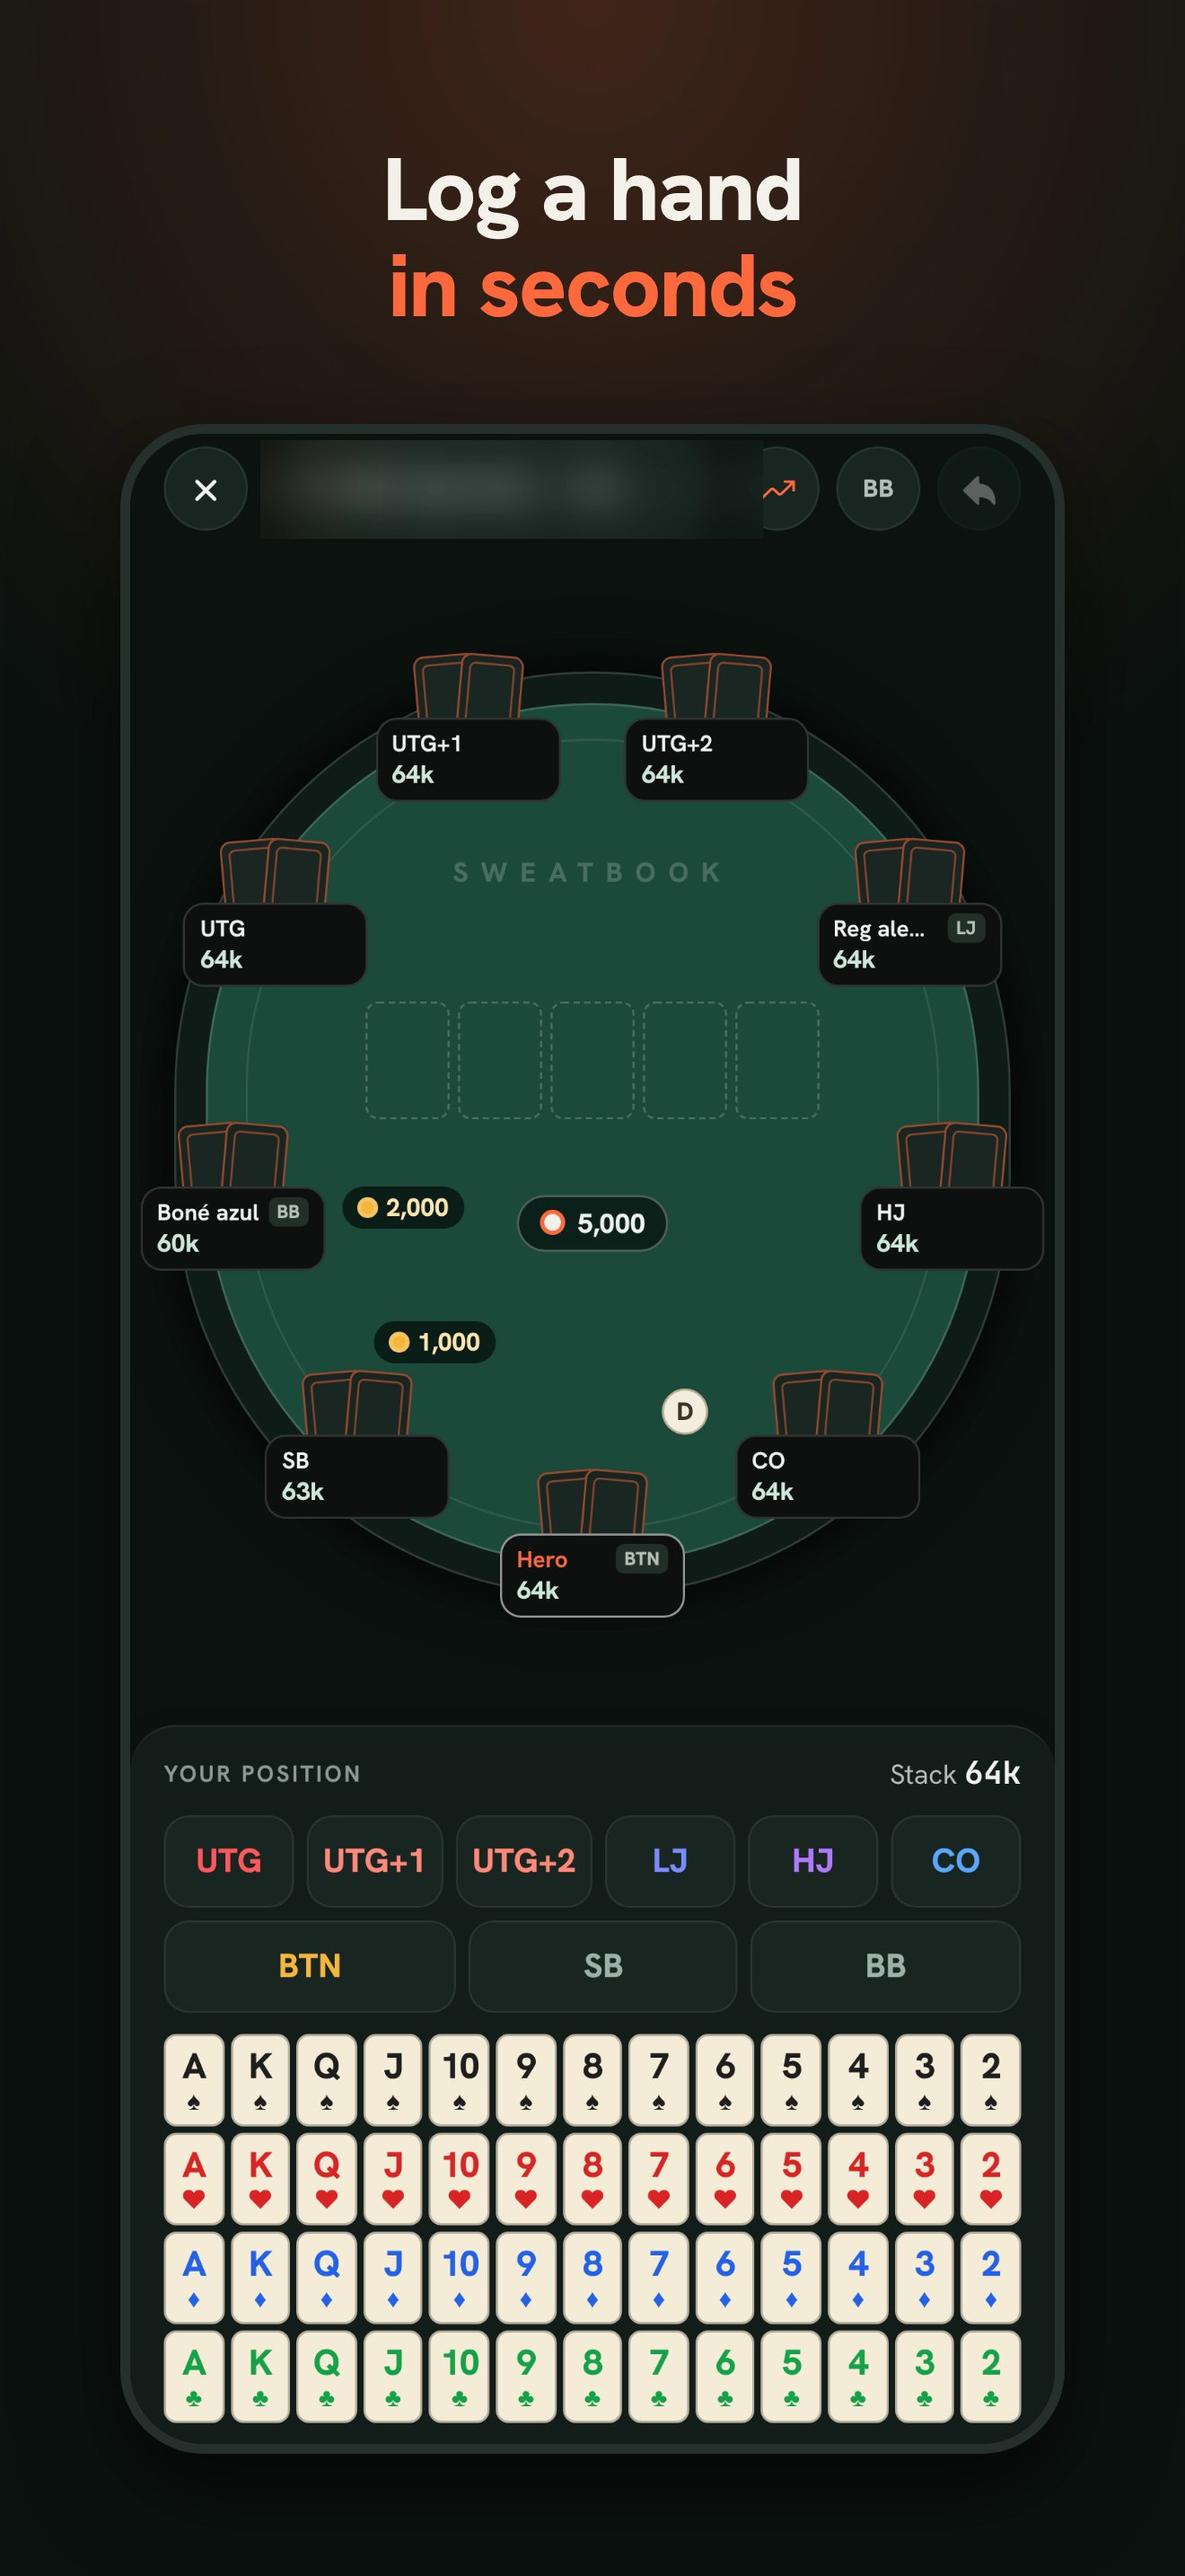
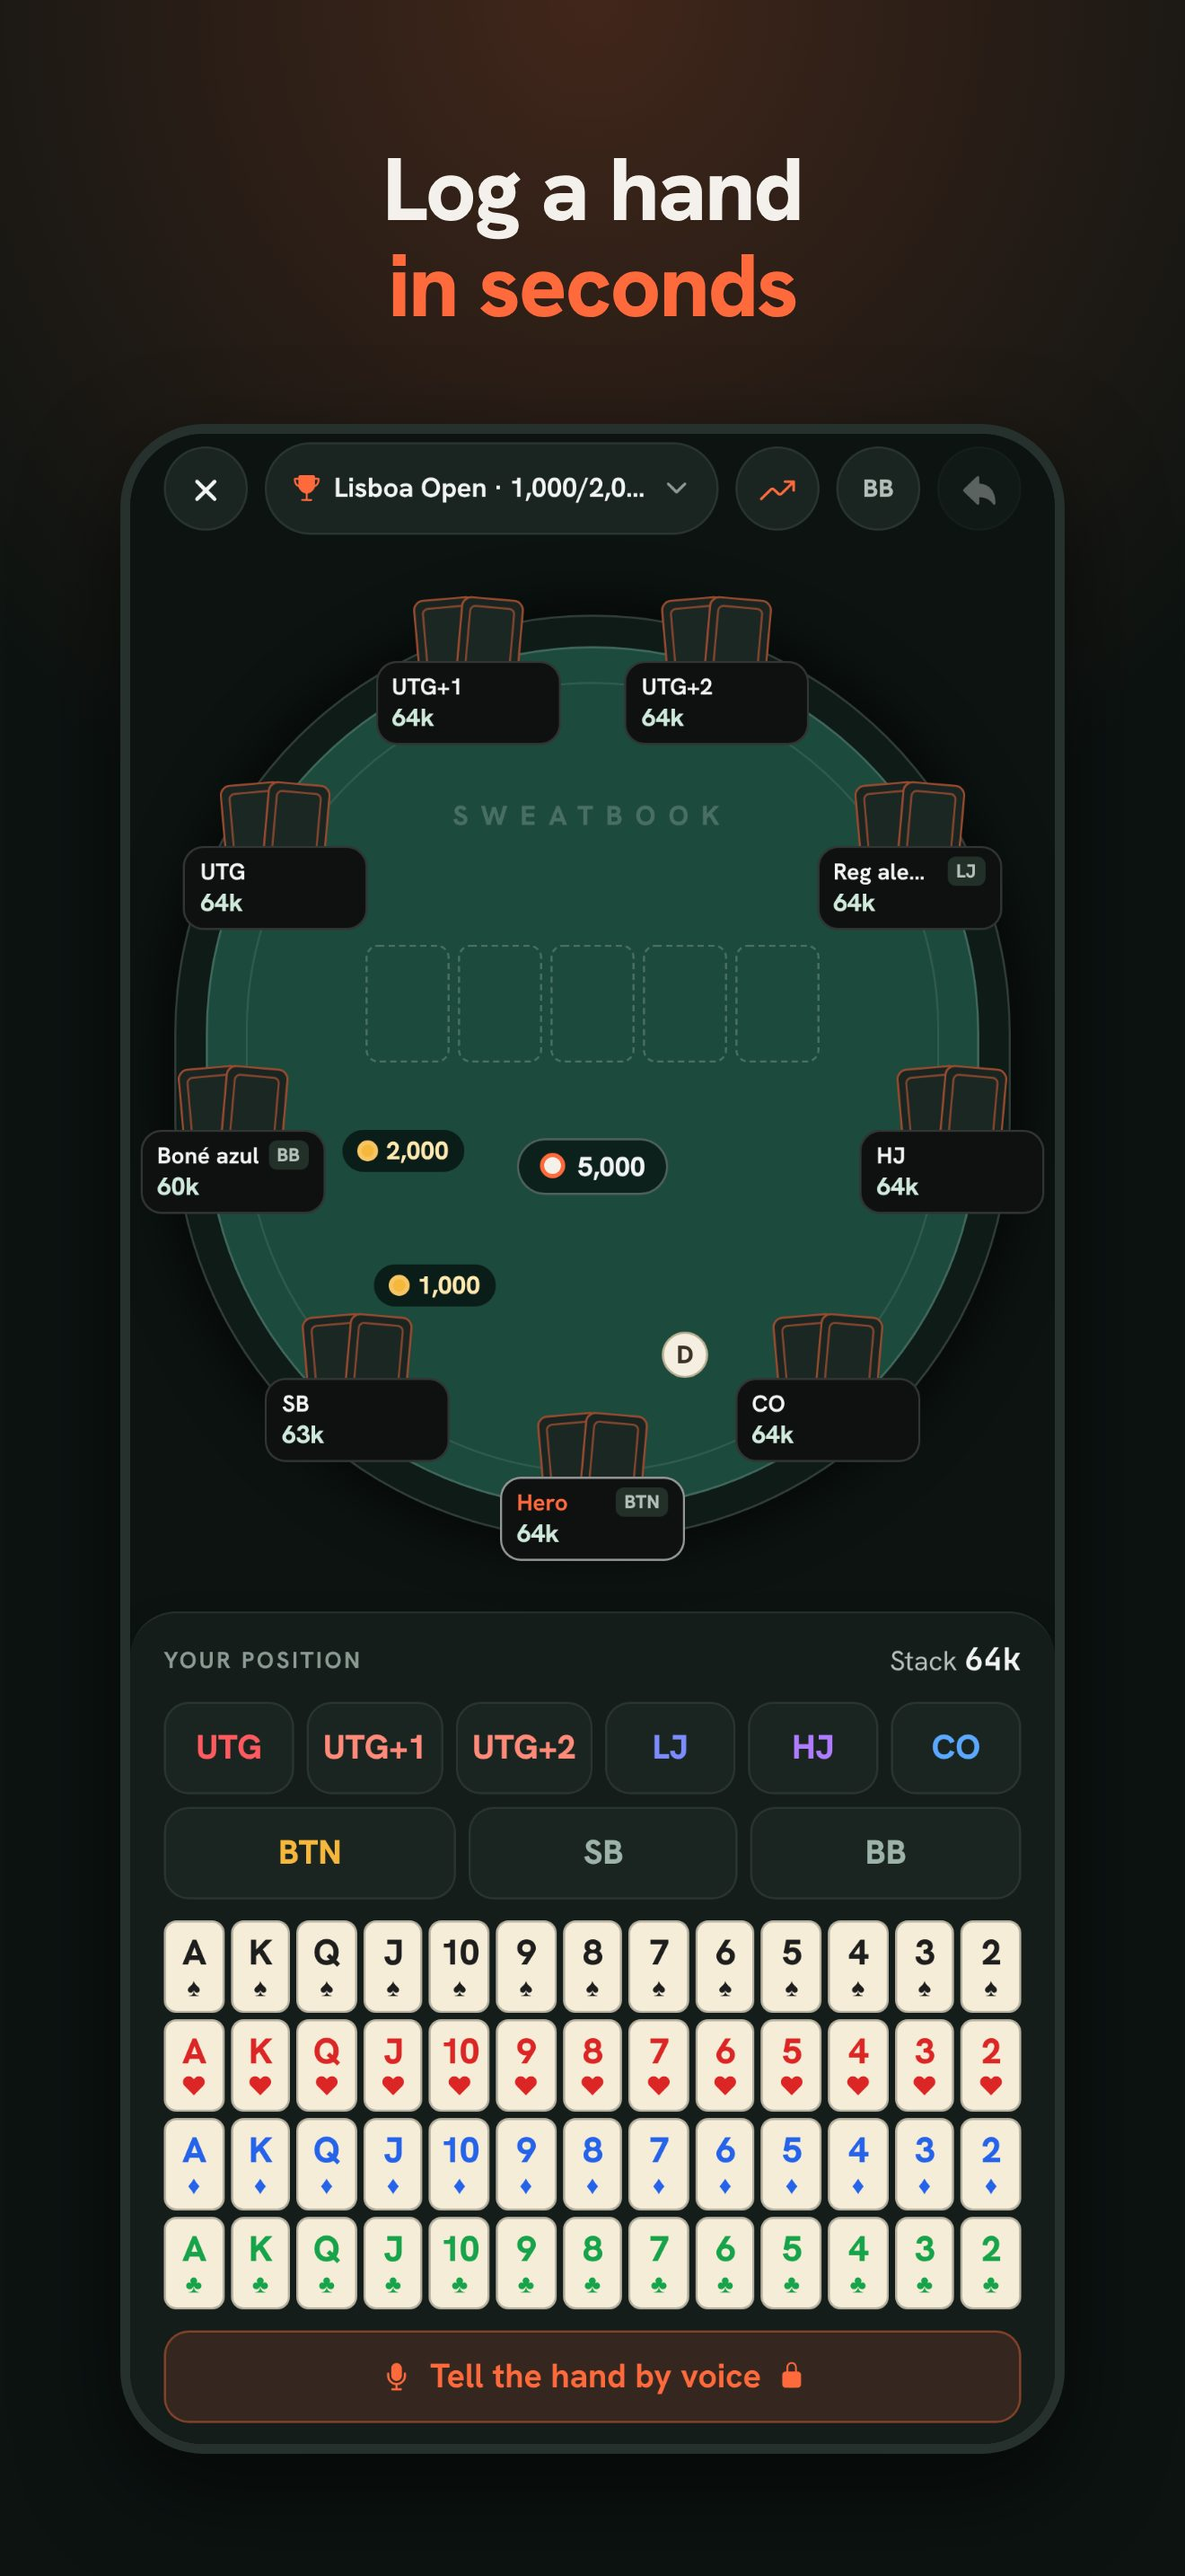
/press: Store's v1 renders with generic event names, 6 shots without money
Store re-rendered the press shots from the v1 with generic names (Lisboa Open,
Madrid Open), so nothing needs blurring. The bankroll, trip and backer screens
stay out: the press kit shows no money amounts.

Claude-Session: https://claude.ai/code/session_015EPwvrzMTKm1bYGXoiYCGm

diff --git a/web/src/app/press/page.tsx b/web/src/app/press/page.tsx
@@ -44,12 +44,15 @@ const FEATURES: [string, string][] = [
   ['Privacy built in', 'Hide the amounts with one tap, lock the app with Face ID and export or erase everything.'],
 ];
 
-// Only the 4 approved for the press in marketing/kit-imprensa.md: the others show amounts.
+// Rendered from the v1 with generic event names. Without the bankroll, trip and backer
+// screens: press images show no money amounts (marketing/kit-imprensa.md).
 const SHOTS: [number, string][] = [
   [1, 'Log a hand in seconds'],
-  [2, 'Replay every street'],
-  [3, 'Share it and ask your friends'],
-  [4, 'Your festival, in one story'],
+  [2, 'Tell the hand, we put it on the table'],
+  [3, 'Replay every street'],
+  [4, 'Share it and ask your friends'],
+  [5, 'The tournament and level, remembered'],
+  [6, 'Wrap up the festival in one Story'],
 ];
 
 const LOGOS: [string, string, string][] = [
